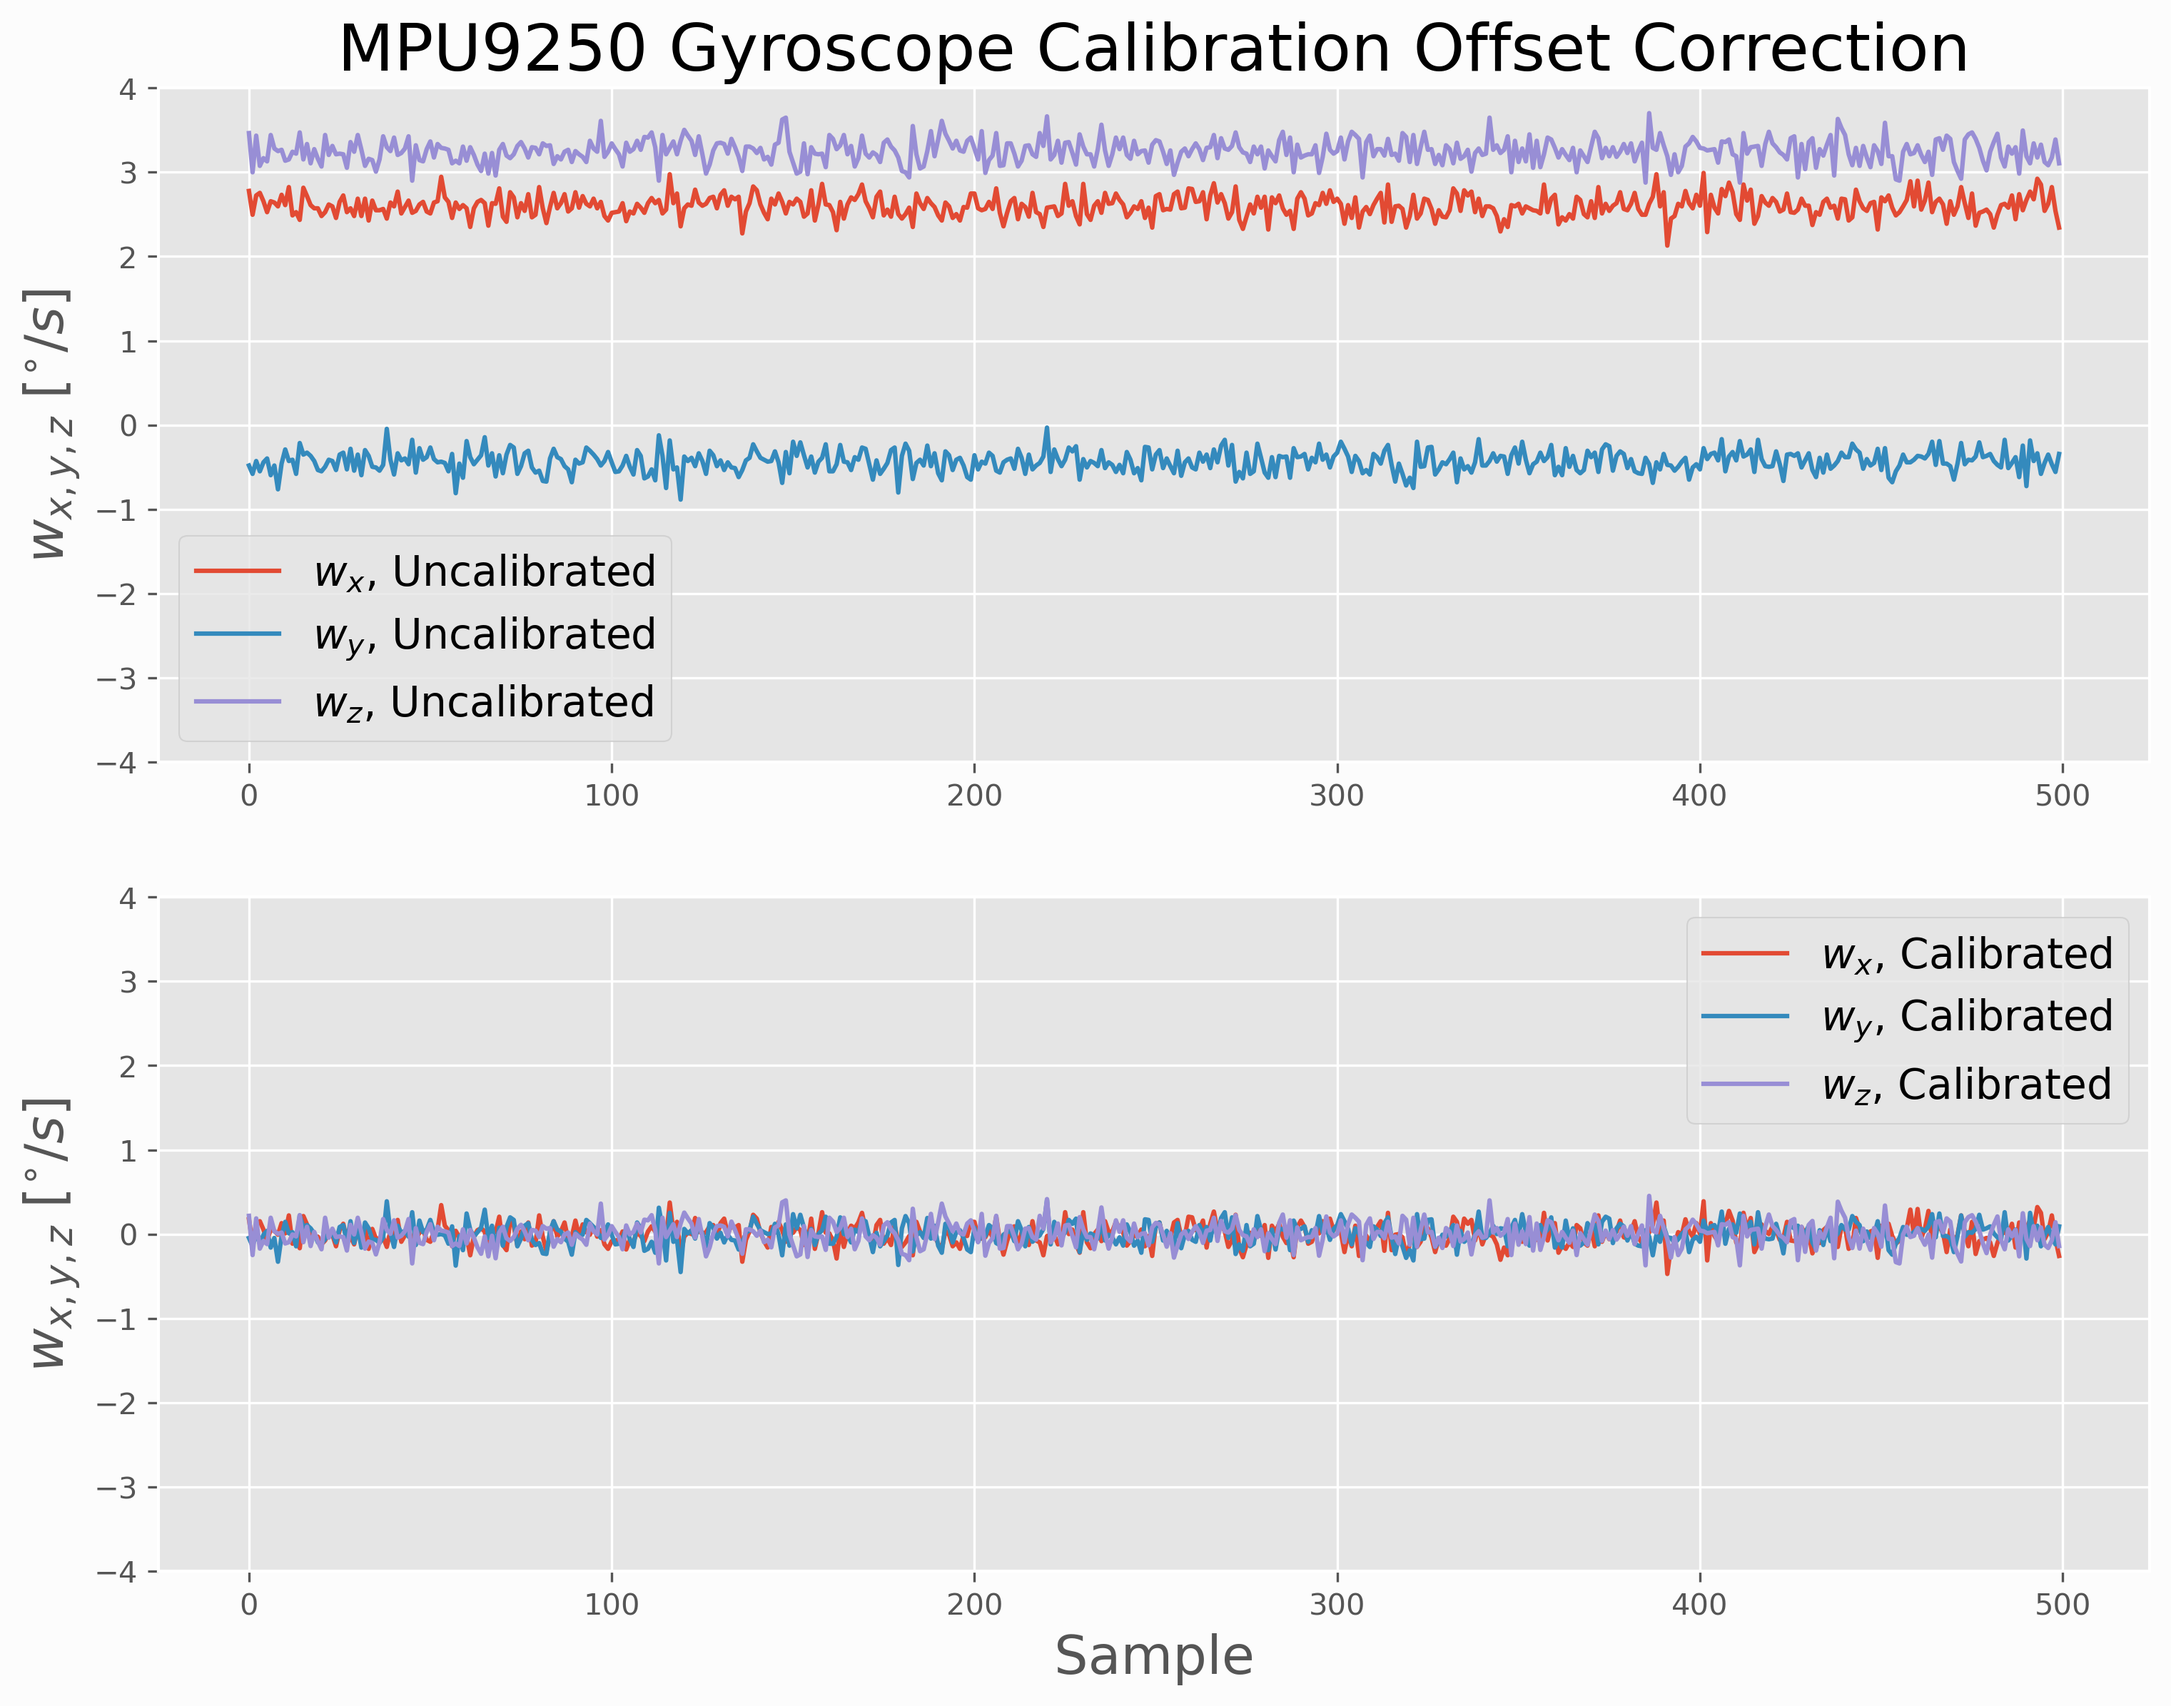
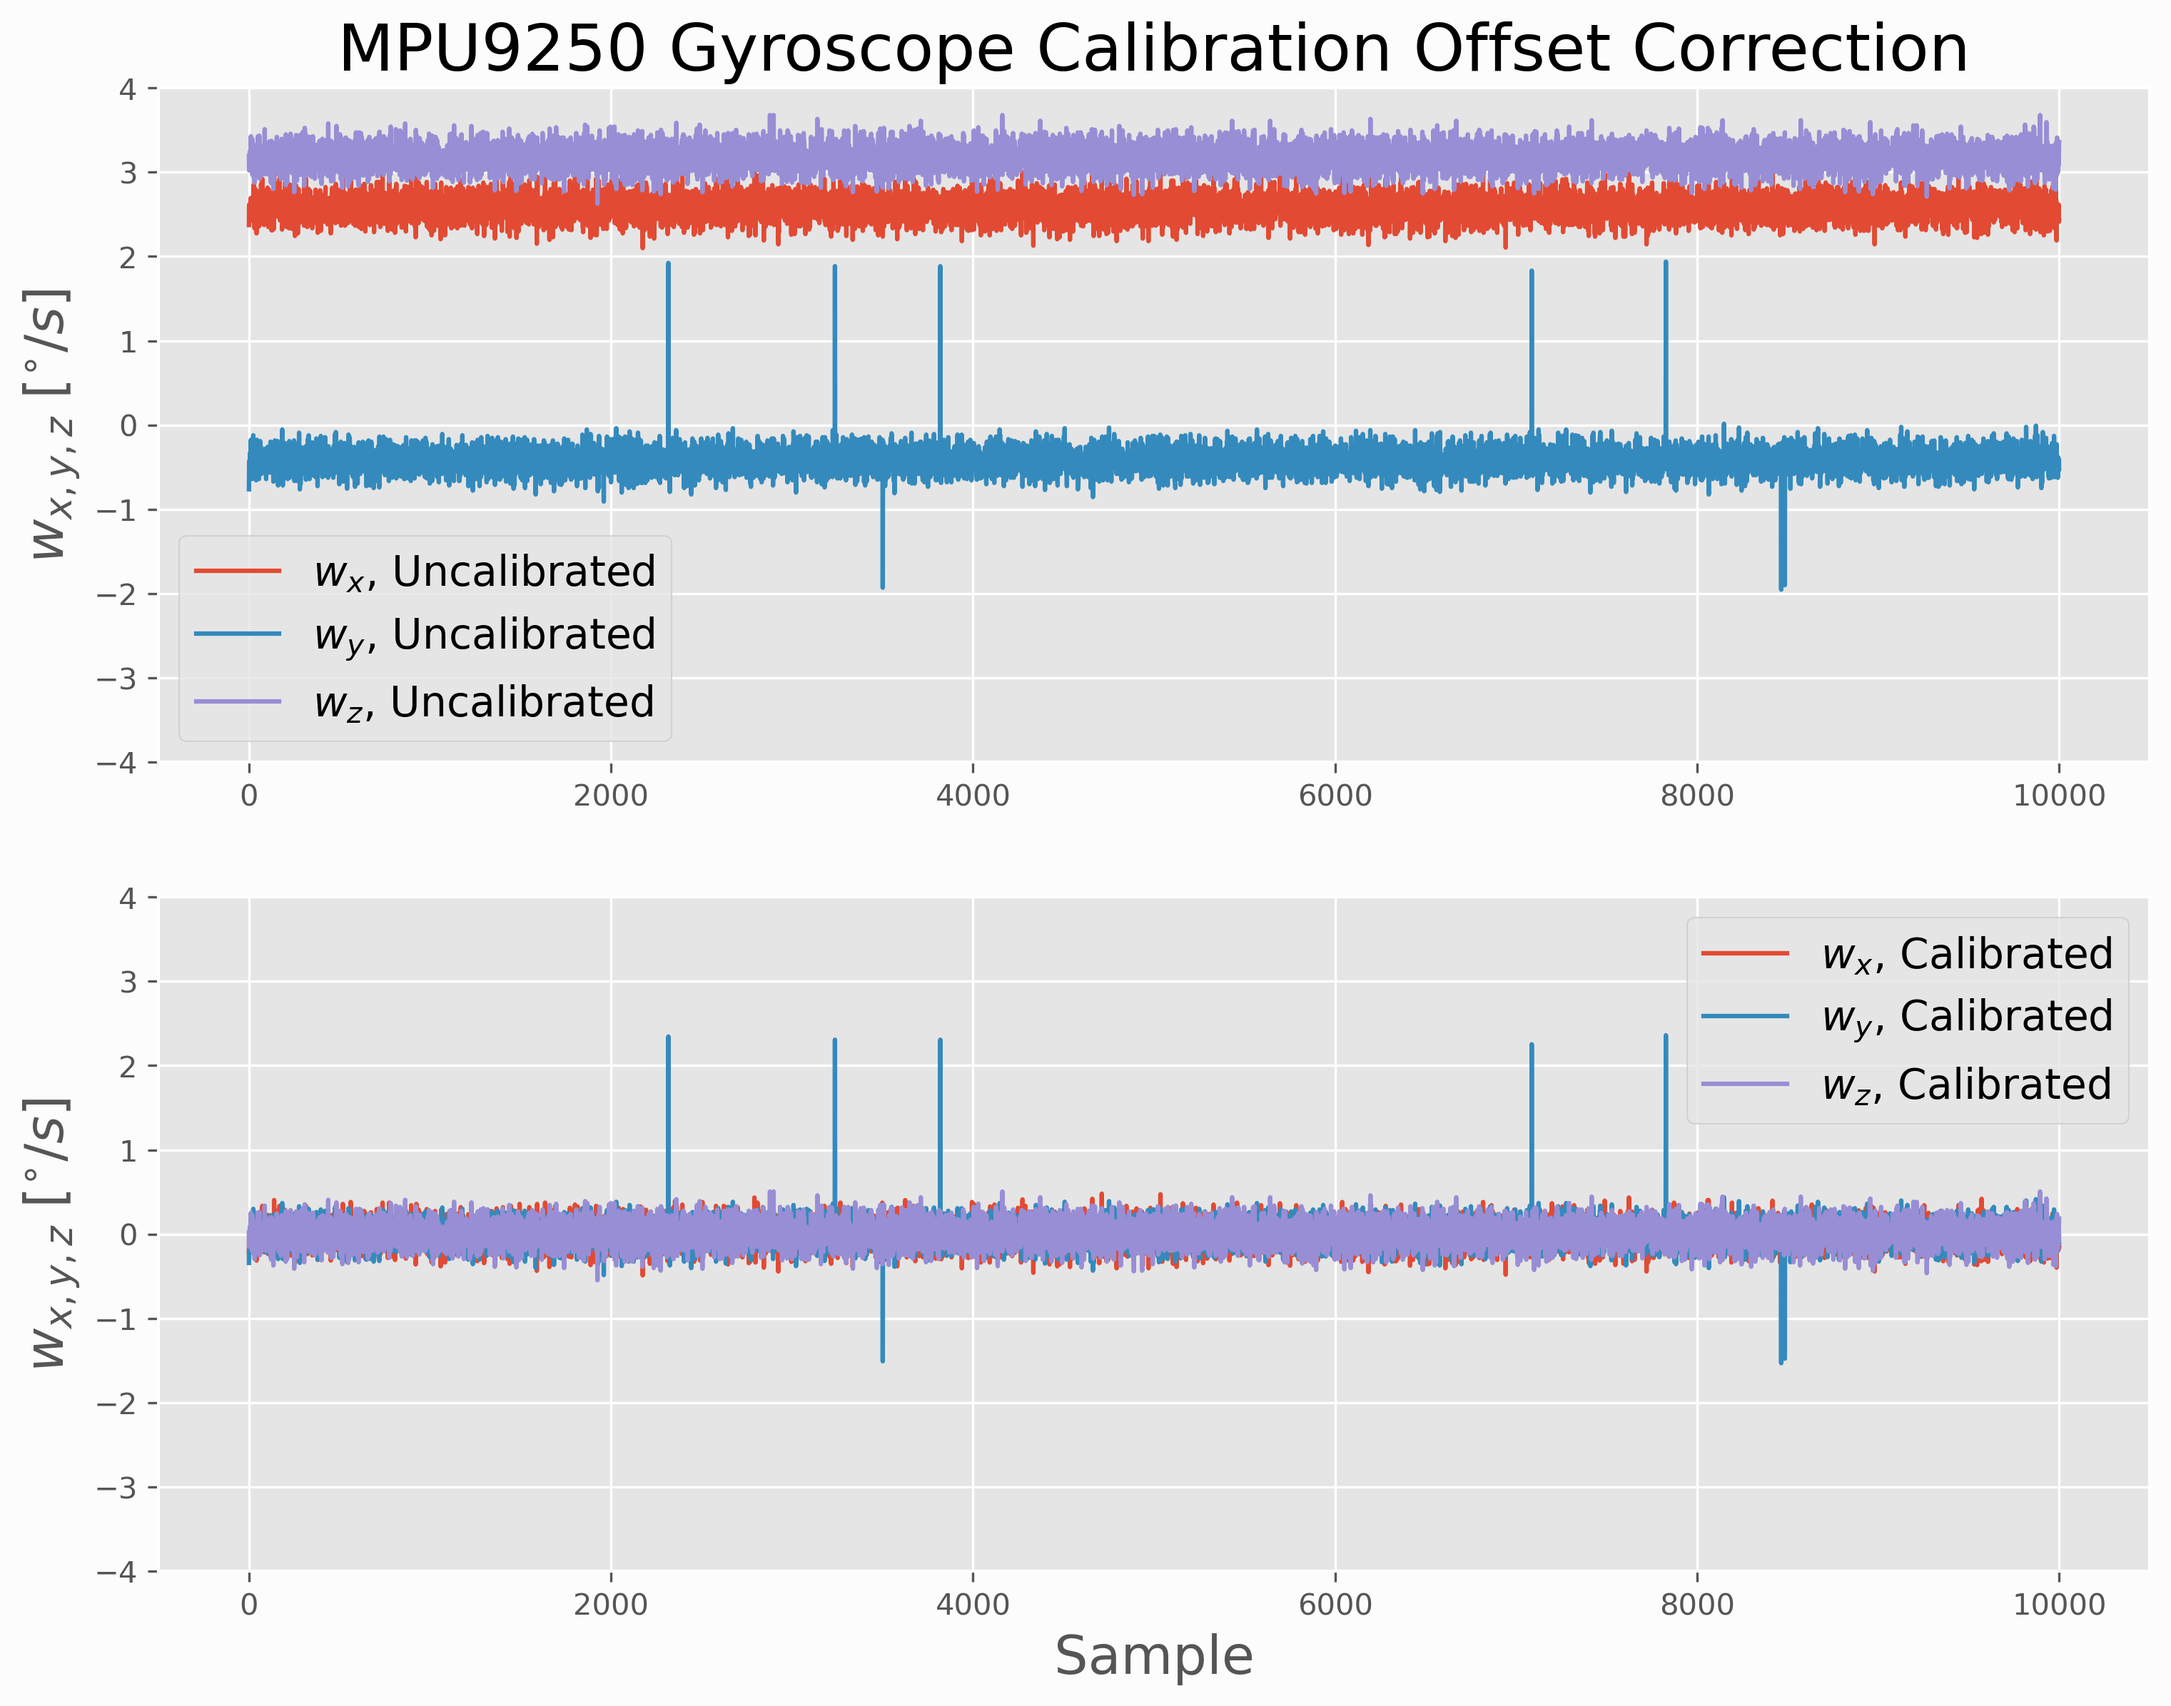
add std dev to gyro cal

diff --git a/MPU9250/Gyroscope Calibration/gyro_calibration.py b/MPU9250/Gyroscope Calibration/gyro_calibration.py
@@ -26,6 +26,7 @@ while time.time()-t0<5:
 import numpy as np
 import csv,datetime
 import matplotlib.pyplot as plt
+import statistics
 
 time.sleep(2) # wait for MPU to load and settle
 # 
@@ -68,7 +69,7 @@ if __name__ == '__main__':
         ###################################
         #
         gyro_labels = ['w_x','w_y','w_z'] # gyro labels for plots
-        cal_size = 500 # points to use for calibration
+        cal_size = 10000 # points to use for calibration
         gyro_offsets = gyro_cal() # calculate gyro offsets
         print("gyro_offsets: ", gyro_offsets)
         #
@@ -76,12 +77,20 @@ if __name__ == '__main__':
         # Record new data 
         ###################################
         #
+        print("collecting")
         data = np.array([get_gyro() for ii in range(0,cal_size)]) # new values
+        print("size of data: ", (data.T).shape)
+        print(data.T[0])
+        print("Standard deviation of uncalibrated sample is: ",
+              "\n    w_x: ", statistics.stdev(data.T[0]), " deg/sec",
+              "\n    w_y: ", statistics.stdev(data.T[1]), " deg/sec",
+              "\n    w_z: ", statistics.stdev(data.T[2]), " deg/sec")
         #
         ###################################
         # Plot with and without offsets
         ###################################
         #
+        
         plt.style.use('ggplot')
         fig,axs = plt.subplots(2,1,figsize=(12,9))
         for ii in range(0,3):
@@ -98,3 +107,4 @@ if __name__ == '__main__':
         fig.savefig('gyro_calibration_output.png',dpi=300,
                     bbox_inches='tight',facecolor='#FCFCFC')
         fig.show()
+        

diff --git a/MPU9250/imu_test.py b/MPU9250/imu_test.py
@@ -61,7 +61,8 @@ while True:
         # Print Data
         ###############
         #
-        print("{0}: {1:3.2f} {2}".format(imu_labels[imu_ii%3],imu_val,imu_units[imu_ii]))
+        #print("{0}: {1:3.2f} {2}".format(imu_labels[imu_ii%3],imu_val,imu_units[imu_ii]))
+        print(imu_labels[imu_ii%3],": ", imu_val, " ", imu_units[imu_ii])
         
     time.sleep(1) # wait between prints
     
